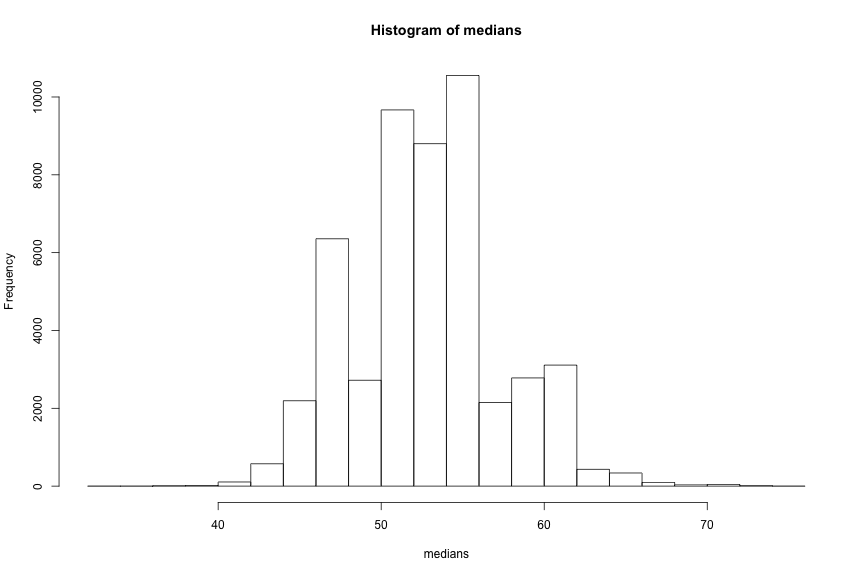
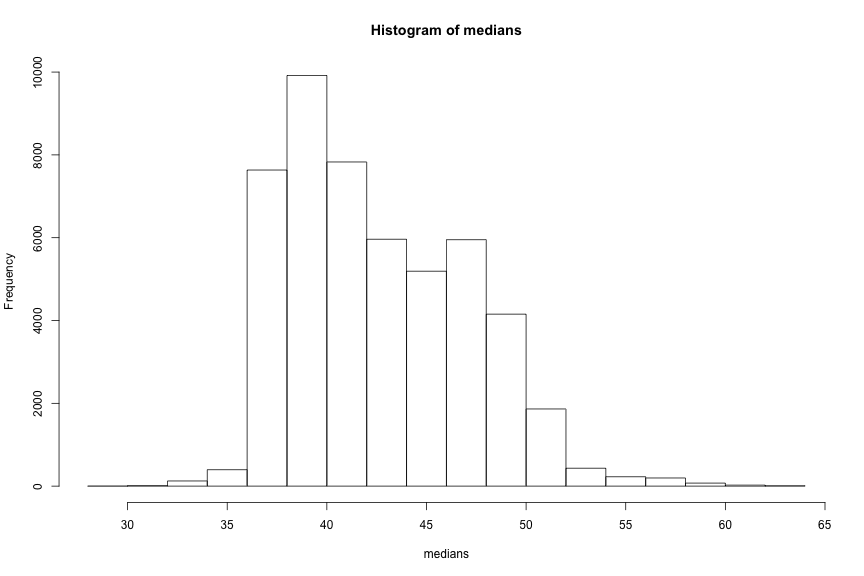
Small slide updates.

diff --git a/rrug_pres.md b/rrug_pres.md
@@ -66,7 +66,7 @@ median(exampleData)
 ```
 
 ```
-[1] 52.97137
+[1] 41.69822
 ```
 
 Is the median accurate?
@@ -84,7 +84,7 @@ system.time(
 
 ```
    user  system elapsed 
-  2.084   0.037   2.125 
+  2.178   0.034   2.219 
 ```
 
 ```r
@@ -92,7 +92,7 @@ mean(medians)
 ```
 
 ```
-[1] 52.95431
+[1] 42.61138
 ```
 
 Resulting Distribution
@@ -118,7 +118,7 @@ system.time(
 
 ```
    user  system elapsed 
-  0.962   0.087   0.540 
+  0.971   0.087   0.539 
 ```
 
 ```r
@@ -126,7 +126,7 @@ mean(unlist(medians))
 ```
 
 ```
-[1] 52.90077
+[1] 42.63273
 ```
 
 Same Distribution!
@@ -155,7 +155,7 @@ system.time(
 
 ```
    user  system elapsed 
-  0.022   0.004   0.514 
+  0.023   0.005   0.531 
 ```
 
 ```r
@@ -183,9 +183,15 @@ The (P)Sock Cluster
 Clusters Compared
 ==================================================
 
+mcLapply
+- Can only be on one machine
+- Implicit Object Sharing
+- Implicit Parallelism
+
+***
+
 Fork Cluster
 - Can only be on one machine
-- No copies of data from core to core
 - Implicit Object Sharing
 - Explicit Parallelism
 
@@ -193,7 +199,6 @@ Fork Cluster
 
 PSOCK Cluster
 - Multiple machines
-- Must copy data between cores
 - Explicit Object Sharing
 - Explicit Parallelism
 
